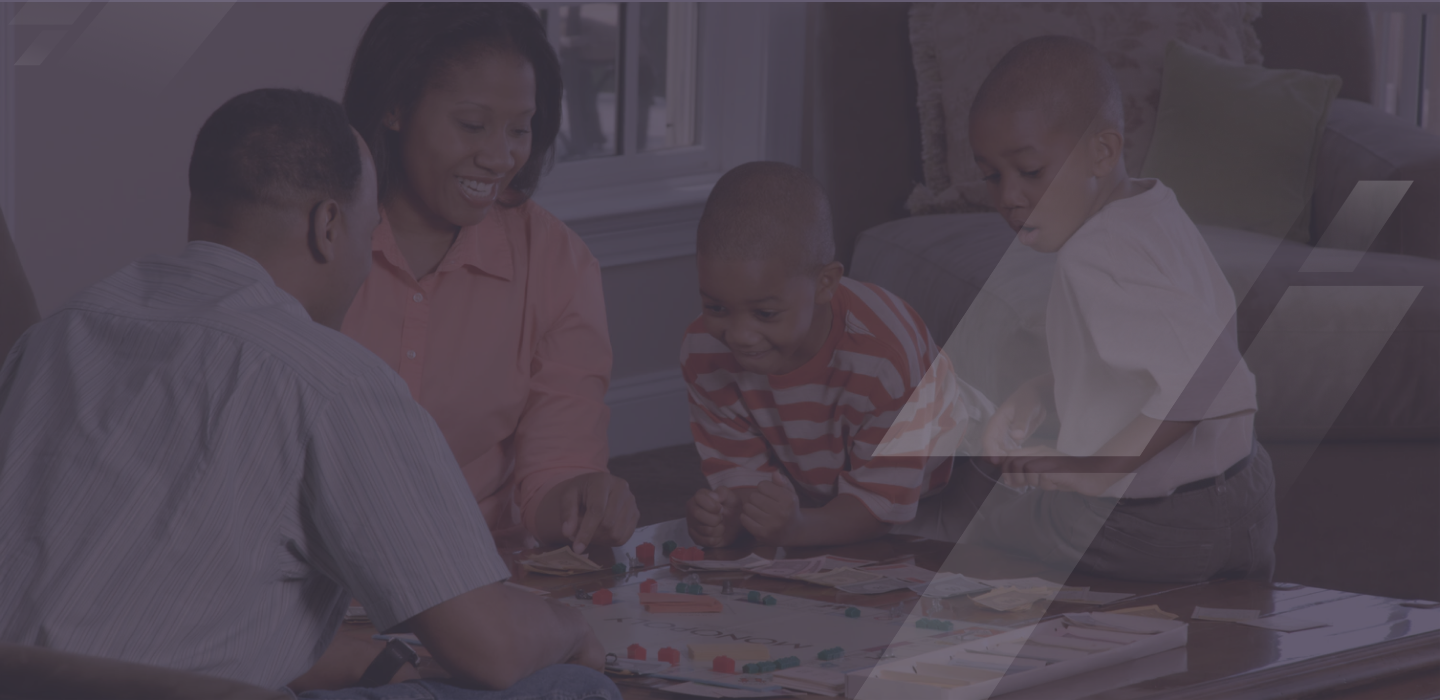
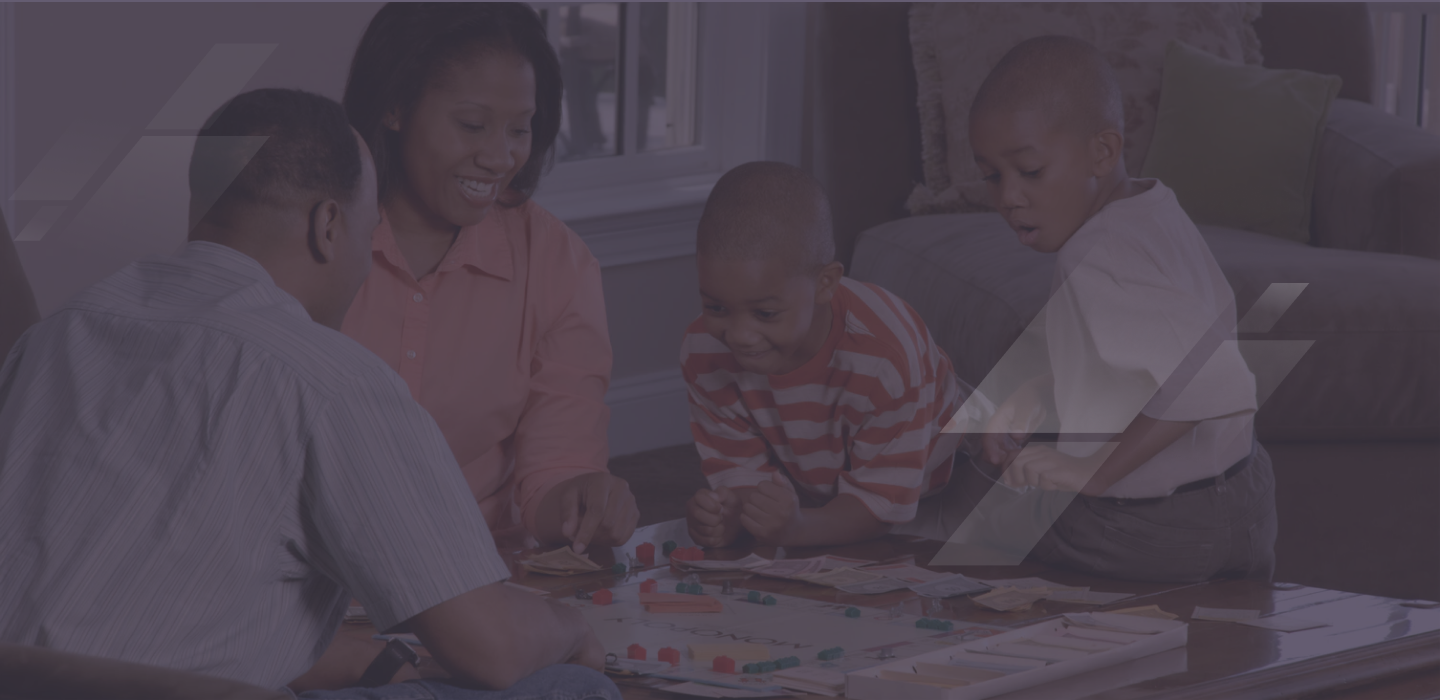
About and Challenge

Changed region(s): [[0.5938, 0.42, 0.8125, 0.66], [0.9375, 0.24, 1.0, 0.3], [0.875, 0.39, 0.9062, 0.42]]

diff --git a/_includes/freeman-capital-case-study.html b/_includes/freeman-capital-case-study.html
@@ -1,19 +1,40 @@
 <section class="text-block">
 	<h2>Project Summary</h2>
-	<h3>About Freeman Capital</h3>
-	<p class="text-block--two-columns" >
-		Freeman Capital was founded with the mission to create generational wealth within underserved communities, especially among people of color, and ultimately closing the wealth gap. 
-		It does this by providing highly customized financial advisory services to individuals who may have historically had less access to personalized insights and counsel. Leveraging technology to improve access to excellent financial advice and insight, Freeman Capital forges a consistent relationship with their clients to help them meet their financial goals.
-	</p>
+	<div class="about">
+		<div>
+			<h3>About Freeman Capital</h3>
+			<p class="text-block" >
+				Freeman Capital was founded with the mission to create generational wealth within underserved communities, especially among people of color, and ultimately closing the wealth gap. 
+				It does this by providing highly customized financial advisory services to individuals who may have historically had less access to personalized insights and counsel. Leveraging technology to improve access to excellent financial advice and insight, Freeman Capital forges a consistent relationship with their clients to help them meet their financial goals.
+			</p>
+		</div>
+		<div class="about--img">
+			<img src="{{ "/img/freeman-dashboard.png" | prepend: base_url }}" alt="dashboard">
+		</div>
+	</div>
 </section>
-<section class="showcase">
-	<img src="{{ "/img/tafs-app.png" | prepend: base_url }}" alt="pixl device">
-	<p>Tafs Mobile App</p>
-</section>
-<section class="text-block text-block--small">
+
+<section class="text-block text-block--fc text-block--small">
 	<h2>The Challenge</h2>
 	<p class="text-block--centered">
-		TAFS manages upwards of 10,000 invoices a month and they were attempting to manage that workflow via email. This was challenging and time consuming because a lot of the documents weren’t legible causing tons of back and forth and, in some cases, requests were lost altogether. We needed to build a new platform to help their clients submit documents in a legible format and automatically put requests into a workflow tool without any information loss.</p>
+		When Freeman Capital’s CEO Calvin Williams, Jr., approached Acklen Avenue through a referral, the company needed to build a unified digital solution that supported the thriving existing business. 
+	</p>
+</section>
+<section class="approach approach--fc">
+	<div class="approach__card-container">
+			<div class="approach__card-container__card card-fc">
+					<img class="iconHurdl" src="{{ "/img/iconFC-input.svg" | prepend: base_url }}" alt="input">
+					<p>Services were administered using highly manual processes on the backend, lacking automation and limiting the company’s capacity to scale and serve a large volume of clients.</p>
+			</div>
+			<div class="approach__card-container__card card-fc">
+					<img class="iconHurdl" src="{{ "/img/iconFC-access.svg" | prepend: base_url }}" alt="access">
+					<p>Clients had to access each of a set of third-party tools separately, limiting the visibility of the complete financial picture and creating a clunky user experience.</p>
+			</div>
+			<div class="approach__card-container__card card-fc">
+					<img class="iconHurdl" src="{{ "/img/iconFC-third-party.svg" | prepend: base_url }}" alt="third party">
+					<p>Finally and crucially, sending clients to various third parties also missed an opportunity to build a more comprehensive relationship with them and serve them as a “one-stop shop”. </p>
+			</div>
+	</div>
 </section>
 <section class="text-block">
 	<h2>The Approach</h2>

diff --git a/_sass/_casestudies.sass b/_sass/_casestudies.sass
@@ -1,4 +1,6 @@
 header.page-header
+  &--freeman-capital
+    background: $slate-purple url(../img/bg-freeman-capital-case-study.png) no-repeat center center
   &--hurdl
     background: $slate-purple url(../img/bg-hurdl-case-study.png) no-repeat center bottom
   &--tafs
@@ -26,7 +28,6 @@ header.page-header
     width: 250px
     text-align: center
 
-
 .text-block
   max-width: 1100px
   margin: 0 auto
@@ -36,6 +37,8 @@ header.page-header
   & h2
     padding: 30px
     text-align: center
+  & h3
+    font-size: 22px
   & p
     line-height: 40px
     padding: 0px 0px 15px
@@ -46,6 +49,18 @@ header.page-header
   &--two-columns
     column-count: 2
     column-gap: 65px
+  &--fc
+    padding: 25px 25px
+
+.about
+  display: flex
+  flex-direction: row
+  & h3
+    font-size: 22px
+    margin: 16px 0
+  &--img
+    display: flex
+    align-items: center
 
 .showcase
   max-width: 900px
@@ -245,6 +260,11 @@ header.page-header
       padding: 25px
       width: 300px
       height: 365px
+  &--fc
+    padding: 0 20px
+
+.card-fc
+  height: auto !important
  
 .theEvolution--hurdl
   text-align: center
@@ -445,12 +465,16 @@ header.page-header
     background: white
     border-radius: $radius
 
-
 @media (min-width: $screen-xm-min) and (max-width: $screen-sm-min)
   .text-block
     &--two-columns
       column-count: 1
       column-gap: 0
+
+  .about
+    display: flex
+    flex-direction: column
+
   .showcase
     max-width: 900px
     margin: 0 auto

diff --git a/our-work/freeman-capital.html b/our-work/freeman-capital.html
@@ -3,7 +3,7 @@ layout: acklen-subfolder
 title: Freeman Capital Case Study
 description: We helped the TAFS team develop a mobile app which interfaced with their clients and also their internal tools; learn more about the solution.
 ---
-<header class="page-header page-header--tafs">
+<header class="page-header page-header--freeman-capital">
 	{% include menu.html %}
 	<h1>Freeman Capital</h1>
 	<h2>Nashville, TN</h2>
